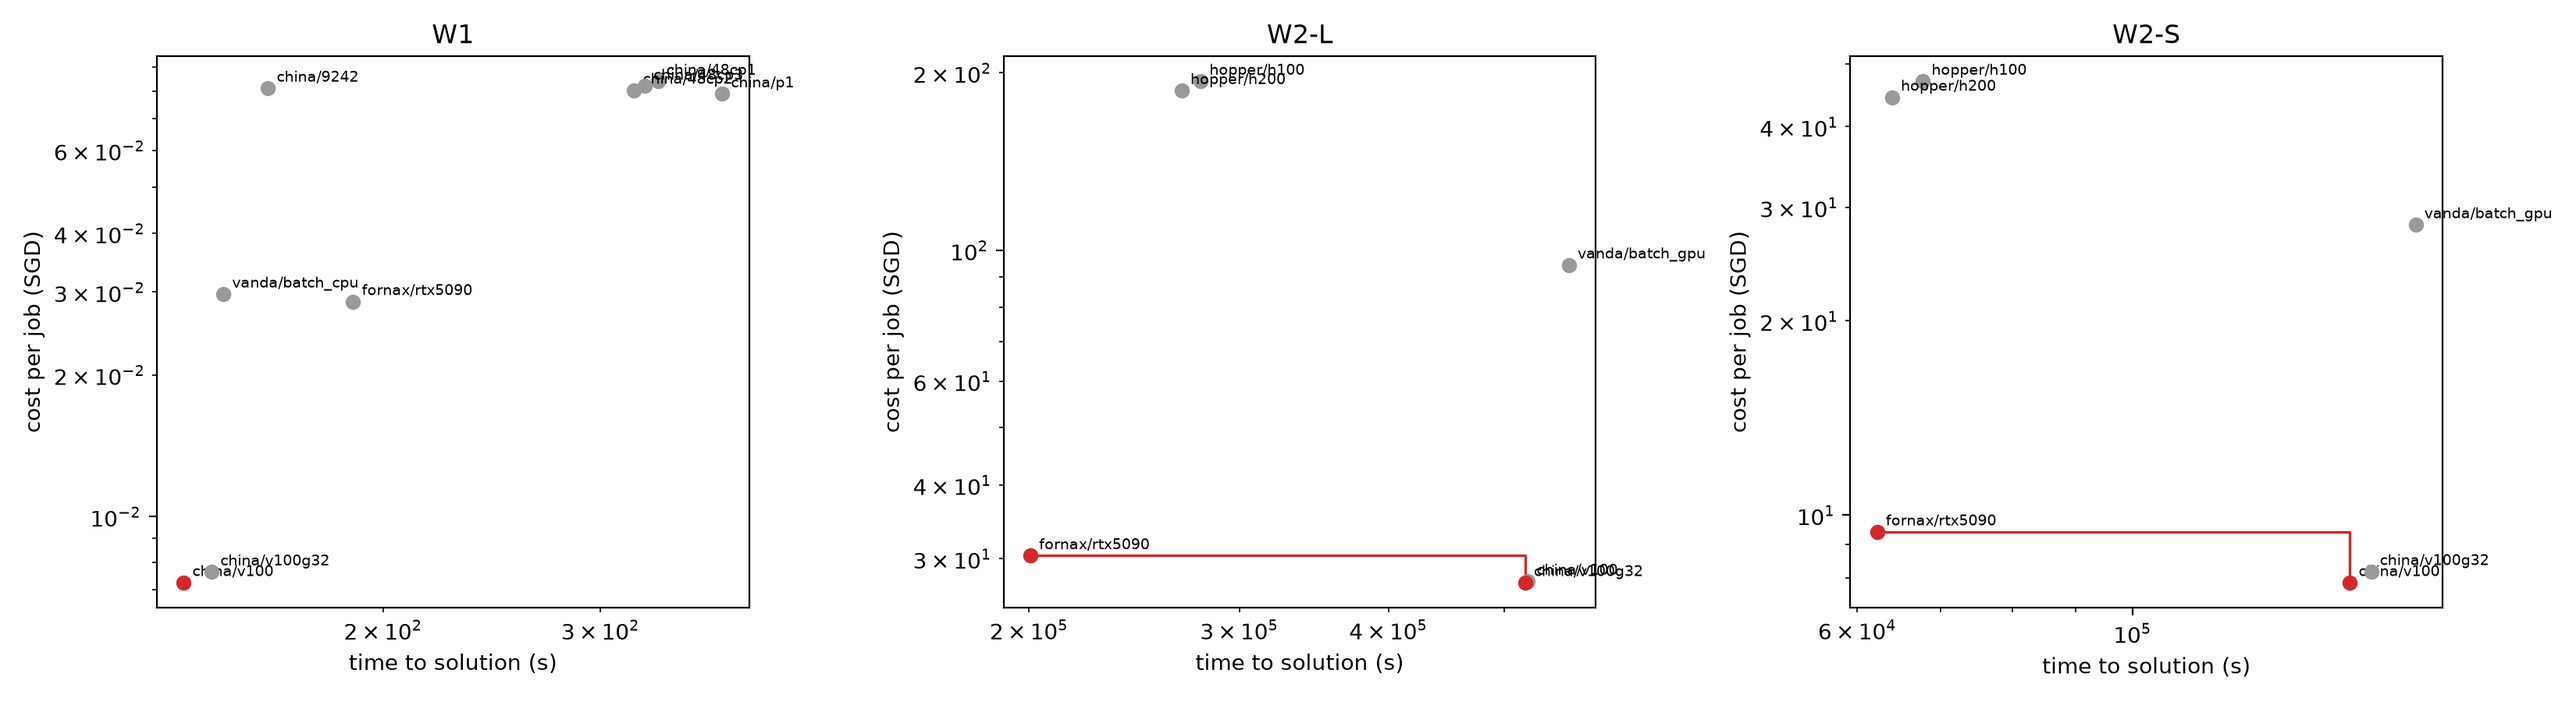
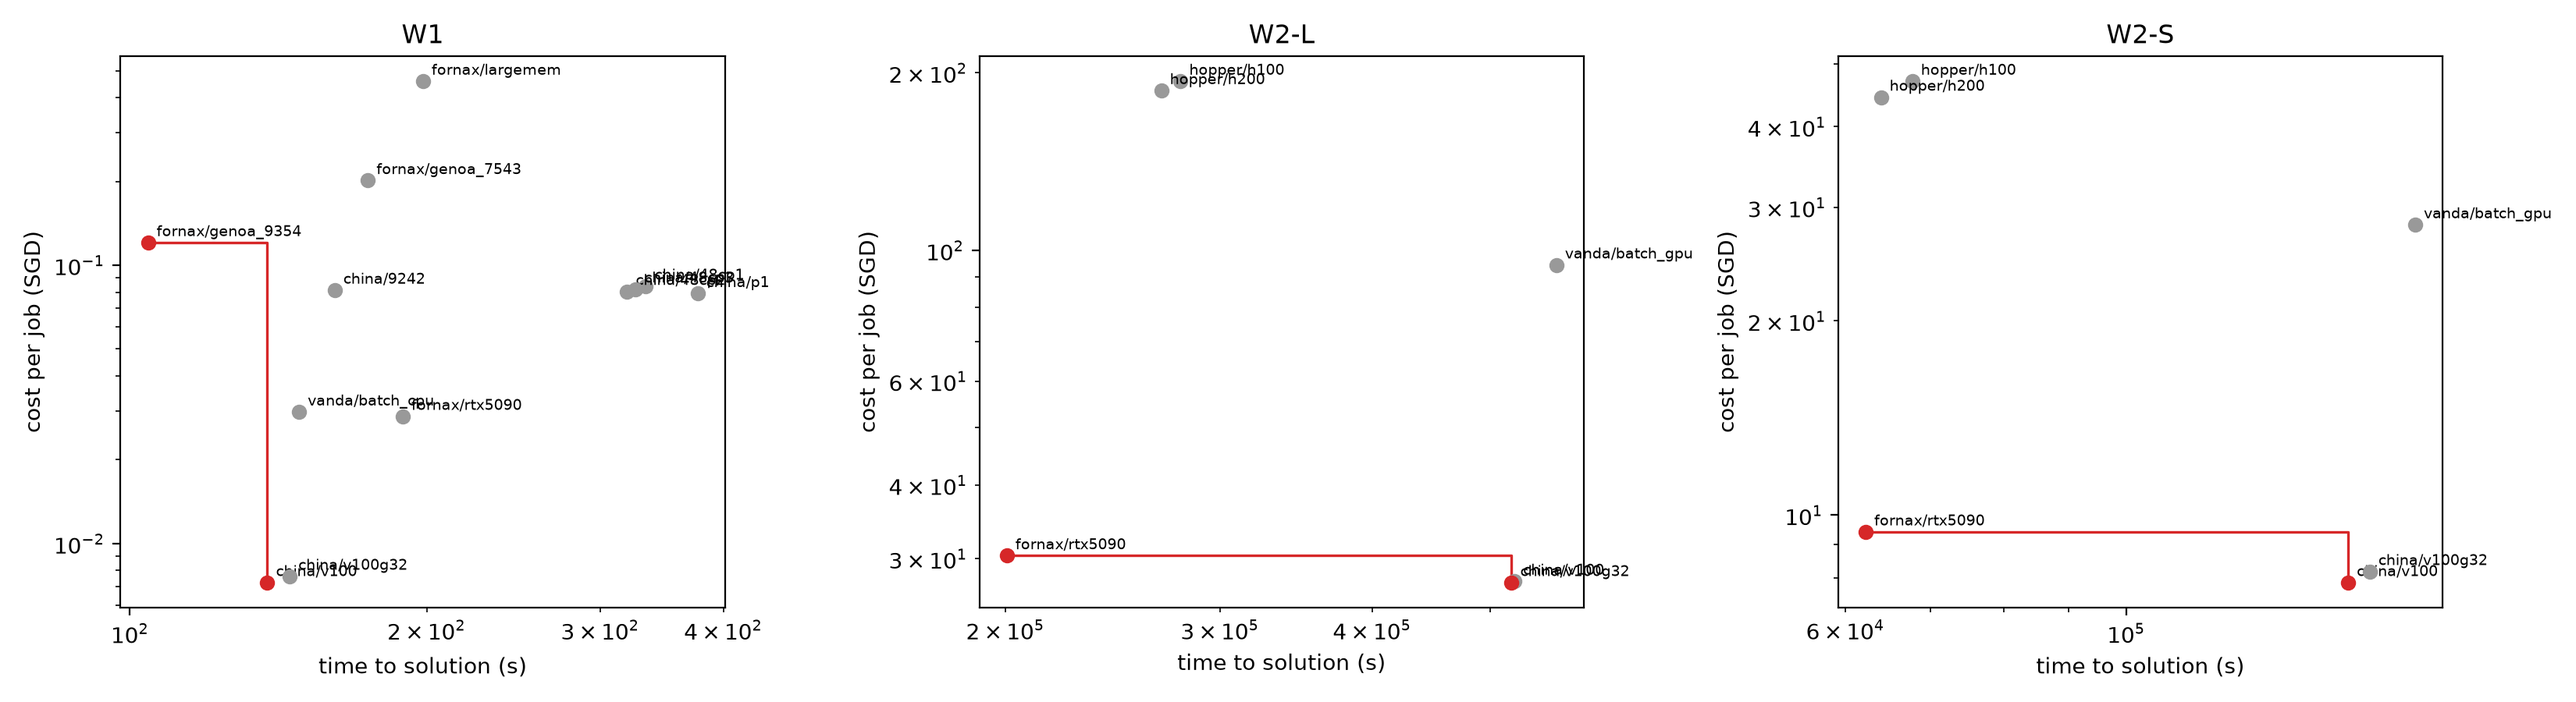
Final results: fornax CPU (genoa_9354, genoa_7543, largemem) added; README §9 final

diff --git a/README.md b/README.md
@@ -5,7 +5,7 @@ Benchmark every CPU and GPU node type we can use on **China HPC (超算云平台
 with *identical* VASP and MACE-MD workloads, then plot **time-to-solution vs. cost per job** to find the
 Pareto-optimal nodes (fastest for a given cost / cheapest for a given speed).
 
-> Status (2026-10-01): inputs + env validated on all 4 clusters; **production runs submitted** (81 jobs). See §8 for findings.
+> Status (2026-10-02): **complete** — all partitions benchmarked, 3 runs each. Results in §9, setup findings in §8.
 
 ---
 
@@ -26,7 +26,7 @@ Collected 2026-10-01 from `sinfo` / `pbsnodes` / `qstat -Q`. Full machine-readab
 | vanda | `batch_gpu` (gn-a40-*) | 2× A40 48 GB | — (no GPU VASP build) | GPU |
 | fornax | `genoa_9354` (c16–c20; c15 excluded) | 2× AMD EPYC 9354, 64 c, 384 GB | CPU | — |
 | fornax | `genoa_7543` (c13) | 2× AMD EPYC 7543, 64 c, 512 GB | CPU | — |
-| fornax | `largemem` | 128 c, 512 GB | CPU | — |
+| fornax | `largemem` | 2× AMD EPYC 7742, 128 c, 512 GB | CPU | — |
 | fornax | `rtx5090` | 1× RTX 5090 32 GB, 32 c, 64 GB | GPU (nvhpc) | GPU |
 | hopper | `h100` (4 nodes) | 8× H100, 112 c, 2 TB | — (no VASP on hopper) | GPU |
 | hopper | `h200` (40 nodes) | 8× H200, 112 c, 2 TB | — (no VASP on hopper) | GPU |
@@ -156,8 +156,8 @@ Rules:
 | 3 | Run `fingerprint.py` on one node per GPU type + CPU; confirm identical energies | all | ✅ A40/RTX5090/H100/H200/V100 agree to 1e-13 eV |
 | 4 | Smoke test: 1 short run per partition (W1 with NELM=3, W2 with 20 steps) | all | ✅ |
 | 5 | Fill in `pricing.yaml` | — | ✅ done (2026-10-01) |
-| 6 | Production: 3 replicates × all partitions × W1/W2 | all | 🔄 submitted 2026-10-01 (fornax CPU pending node diagnosis) |
-| 7 | Collect results, plot Pareto front, write summary | local | 🔄 preliminary (§9) |
+| 6 | Production: 3 replicates × all partitions × W1/W2 | all | ✅ 2026-10-02 |
+| 7 | Collect results, plot Pareto front, write summary | local | ✅ (§9) |
 
 Rough compute budget: W1 ≈ 0.2–1 node-h per run → ~12 partitions × 3 reps ≈ 20 node-h;
 W2 ≈ < 0.5 GPU-h per run. Small enough to finish in about 1 week including queue time.
@@ -181,7 +181,7 @@ W2 ≈ < 0.5 GPU-h per run. Small enough to finish in about 1 week including que
 - **fornax GPU nodes do not mount `/scratch`** → fornax runs from `/home/li.mengke/hpc-benchmark`.
 - **fornax `genoa` queue is heterogeneous**: `fornax-c13` = AMD EPYC 7543 (Milan), `fornax-c15…c20` = EPYC 9354 (Genoa).
   Stock `vasp/vasp.6.5.1` (Intel 2019): 3.7–4.2 s/SCF on c16/c18 (fastest CPU nodes measured), 6.4 s on c13,
-  but ~30 s on **c15** (twice, alone on the node; `MKL_DEBUG_CPU_TYPE=5` no help) → c15 excluded, likely a node fault.
+  but 22–34 s on **c15** (3 separate runs, alone on the node; `MKL_DEBUG_CPU_TYPE=5` no help) → c15 excluded; report to fornax admin.
   On the plot genoa is split into `genoa_9354` and `genoa_7543`.
 - **fornax node pinning**: use `vnode=fornax-cNN`; `host=` never matches CPU nodes (they register as `fornax-cNN-ib0`).
 - **vanda free `gpu` queue**: access denied for our account → dropped from the plan.
@@ -192,7 +192,7 @@ W2 ≈ < 0.5 GPU-h per run. Small enough to finish in about 1 week including que
 
 ---
 
-## 9. Results (2026-10-01, fornax CPU pending)
+## 9. Results (final, 2026-10-02)
 
 ![Pareto front](analysis/pareto.png)
 
@@ -203,11 +203,14 @@ Regenerate: `analysis/collect.sh && python analysis/pareto.py && python analysis
 
 | Partition | Time | Cost / job (SGD) | Runs | Pareto |
 |---|---|---|---|---|
+| `fornax/genoa_9354` | 104 | 0.121 | 3 | ★ |
 | `china/v100` | 138 | 0.00724 | 3 | ★ |
 | `china/v100g32` | 145 | 0.00762 | 3 |  |
 | `vanda/batch_cpu` | 148 | 0.0297 | 3 |  |
 | `china/9242` | 161 | 0.0813 | 3 |  |
+| `fornax/genoa_7543` | 174 | 0.201 | 3 |  |
 | `fornax/rtx5090` | 189 | 0.0286 | 3 |  |
+| `fornax/largemem` | 198 | 0.458 | 3 |  |
 | `china/48cp2` | 319 | 0.0805 | 3 |  |
 | `china/48cp3` | 326 | 0.0821 | 3 |  |
 | `china/48cp1` | 334 | 0.0841 | 3 |  |
@@ -235,9 +238,11 @@ Regenerate: `analysis/collect.sh && python analysis/pareto.py && python analysis
 | `china/v100g32` | 43.3 | 8.18 | 3 |  |
 | `vanda/batch_gpu` | 47 | 28.2 | 3 |  |
 
-**Takeaways (preliminary)**
-- **VASP**: China `v100` (1 GPU, nvhpc build) is both fastest and cheapest for this 128-atom SCF.
-  Among CPU nodes, vanda (72 c) is fastest and ~3× cheaper per job than any China CPU partition.
+**Takeaways**
+- **VASP**: two Pareto points. **Fastest: fornax `genoa_9354`** (EPYC 9354, 64 c; 104 s) — but it is priced at
+  AWS on-demand rates (0.12 SGD/job). **Cheapest: China `v100`** (1 GPU, nvhpc build; 138 s, 0.007 SGD/job, ~17× cheaper).
+  Best university-rate CPU option: vanda (148 s, 0.03 SGD). China CPU partitions are 2–3× slower at ~0.08 SGD.
+  fornax `largemem` (EPYC 7742, 128 c) is slower than the 64-core genoa nodes (198 s).
 - **MACE**: fornax RTX 5090 is fastest at both sizes; China V100 is cheapest.
   H100/H200 are about as fast as the RTX 5090 but ~5× the cost per ns (no cuEquivariance; small systems).
 - MACE MD is benchmarked on GPUs only (CPU nodes dropped from W2 on 2026-10-01).
